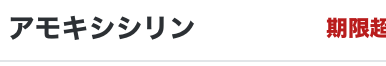
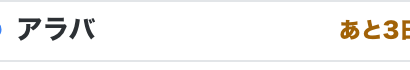
薬剤名をcanvas描画にし、iPad Safariのスペル波線を根本回避する。

diff --git a/js/meds-ui.js b/js/meds-ui.js
@@ -326,10 +326,77 @@ function renderMedsList() {
   });
 }
 
+/**
+ * 薬剤名を canvas で描画する。
+ * iPad Safari は静的テキスト／::before にも赤いスペル波線を付けることがあるため、
+ * テキストノードを持たせず描画する（読み上げは aria-label）。
+ */
+function fillMedNameEl(nameEl, displayName) {
+  nameEl.replaceChildren();
+  nameEl.spellcheck = false;
+  nameEl.contentEditable = "false";
+  nameEl.translate = false;
+  nameEl.dataset.name = displayName;
+  nameEl.setAttribute("aria-label", displayName);
+  nameEl.setAttribute("role", "text");
+
+  const canvas = document.createElement("canvas");
+  canvas.className = "med-card__name-canvas";
+  canvas.setAttribute("aria-hidden", "true");
+  nameEl.appendChild(canvas);
+
+  const paint = () => {
+    if (!nameEl.isConnected) return;
+    const cs = getComputedStyle(nameEl);
+    const maxW = Math.max(0, Math.floor(nameEl.clientWidth));
+    if (!maxW) return;
+
+    const dpr = window.devicePixelRatio || 1;
+    const font = `${cs.fontWeight} ${cs.fontSize} ${cs.fontFamily}`;
+    const fontPx = parseFloat(cs.fontSize) || 14;
+    const h = Math.ceil(fontPx * 1.35);
+
+    const probe = canvas.getContext("2d");
+    if (!probe) return;
+    probe.font = font;
+
+    let text = displayName;
+    let width = probe.measureText(text).width;
+    if (width > maxW) {
+      const ell = "…";
+      while (text.length > 0 && probe.measureText(text + ell).width > maxW) {
+        text = text.slice(0, -1);
+      }
+      text += ell;
+      width = probe.measureText(text).width;
+    }
+
+    const w = Math.max(1, Math.ceil(Math.min(width, maxW)));
+    canvas.width = Math.ceil(w * dpr);
+    canvas.height = Math.ceil(h * dpr);
+    canvas.style.width = `${w}px`;
+    canvas.style.height = `${h}px`;
+
+    const ctx = canvas.getContext("2d");
+    ctx.setTransform(dpr, 0, 0, dpr, 0, 0);
+    ctx.clearRect(0, 0, w, h);
+    ctx.font = font;
+    ctx.fillStyle = cs.color;
+    ctx.textBaseline = "middle";
+    ctx.textAlign = "left";
+    ctx.fillText(text, 0, h / 2);
+  };
+
+  const ro = new ResizeObserver(() => paint());
+  ro.observe(nameEl);
+  requestAnimationFrame(paint);
+}
+
 function createDrugCard(drug) {
   const li = document.createElement("li");
   li.className = "med-card";
   li.spellcheck = false;
+  li.contentEditable = "false";
   li.dataset.drugId = drug.id;
 
   const status = deriveStatus(drug);
@@ -361,12 +428,7 @@ function createDrugCard(drug) {
   const displayName = drug.name || "（名称未設定）";
   const nameEl = document.createElement("span");
   nameEl.className = "med-card__name";
-  nameEl.spellcheck = false;
-  // iPad Safari は spellcheck=false でも固有名詞に赤い波線を付けることがある。
-  // 1) 実テキストは空  2) 表示は ::before(attr)  3) 文字間 ZWSP で単語判定を崩す
-  nameEl.dataset.name = Array.from(displayName).join("\u200B");
-  nameEl.setAttribute("aria-label", displayName);
-  nameEl.textContent = "";
+  fillMedNameEl(nameEl, displayName);
 
   const statusEl = document.createElement("span");
   statusEl.className = `med-status med-status--${status.id}`;

diff --git a/css/style.css b/css/style.css
@@ -1994,49 +1994,25 @@ html.is-unlocked .app {
 .med-card__name {
   flex: 1;
   min-width: 0;
+  display: flex;
+  align-items: center;
   font-weight: 700;
   font-size: 0.84rem;
   color: var(--color-text);
   overflow: hidden;
-  text-overflow: ellipsis;
-  white-space: nowrap;
-  /* ブラウザのスペルチェック赤い下線を出さない（薬剤名は固有名詞のため誤検知されやすい） */
-  text-decoration: none !important;
-  text-decoration-line: none !important;
-  -webkit-text-decoration-line: none !important;
-  text-decoration-color: transparent !important;
-  -webkit-text-decoration-color: transparent !important;
-  text-decoration-thickness: 0 !important;
-  /* iPad Safari でもスペルチェック対象になりにくいよう、表示は生成コンテンツ経由にする */
+  /* iPad Safari のスペル波線回避のため、表示は canvas（テキストノードなし） */
   -webkit-user-select: none;
   user-select: none;
-}
-
-/* 実テキストを空にし data-name を表示する（WebKit の波線マーカー回避） */
-.med-card__name::before {
-  content: attr(data-name);
-}
-
-/* Chrome / Safari が付けるスペル／文法エラーマーカーを消す */
-.med-card ::spelling-error,
-.med-card ::grammar-error,
-.meds-list ::spelling-error,
-.meds-list ::grammar-error,
-.med-card__name::spelling-error,
-.med-card__name::grammar-error {
-  color: inherit;
-  background: transparent;
+  pointer-events: none;
   text-decoration: none !important;
-  text-decoration-line: none !important;
   -webkit-text-decoration-line: none !important;
-  text-decoration-color: transparent !important;
-  -webkit-text-decoration-color: transparent !important;
 }
 
-/* 詳細内の input には付けない（編集不能になるため） */
-.med-card__header,
-.med-card__name {
-  -webkit-user-modify: read-only;
+.med-card__name-canvas {
+  display: block;
+  max-width: 100%;
+  flex: 0 1 auto;
+  pointer-events: none;
 }
 
 .med-card__chevron {

diff --git a/index.html b/index.html
@@ -385,7 +385,7 @@
         <section class="exam-section">
           <h3 class="exam-section__title">薬剤一覧</h3>
           <p class="field__note" id="meds-empty">登録された薬剤はありません。</p>
-          <ul class="meds-list" id="meds-list" spellcheck="false" lang="ja"></ul>
+          <ul class="meds-list" id="meds-list" spellcheck="false" lang="ja" translate="no"></ul>
         </section>
       </div>
 

diff --git a/service-worker.js b/service-worker.js
@@ -8,7 +8,7 @@
 //
 // ※ CACHE_VERSION を上げるときは js/app-version.js の APP_VERSION / CACHE_LABEL も合わせて更新する。
 
-const CACHE_VERSION = "v95";
+const CACHE_VERSION = "v96";
 const CACHE_NAME = `nyuta-karte-log-${CACHE_VERSION}`;
 
 const APP_SHELL_FILES = [

diff --git a/js/app-version.js b/js/app-version.js
@@ -1,3 +1,3 @@
 // アプリの表示用バージョン。Service Worker の CACHE_VERSION と合わせて更新する。
-export const APP_VERSION = "1.9.52";
-export const CACHE_LABEL = "v95";
+export const APP_VERSION = "1.9.53";
+export const CACHE_LABEL = "v96";
